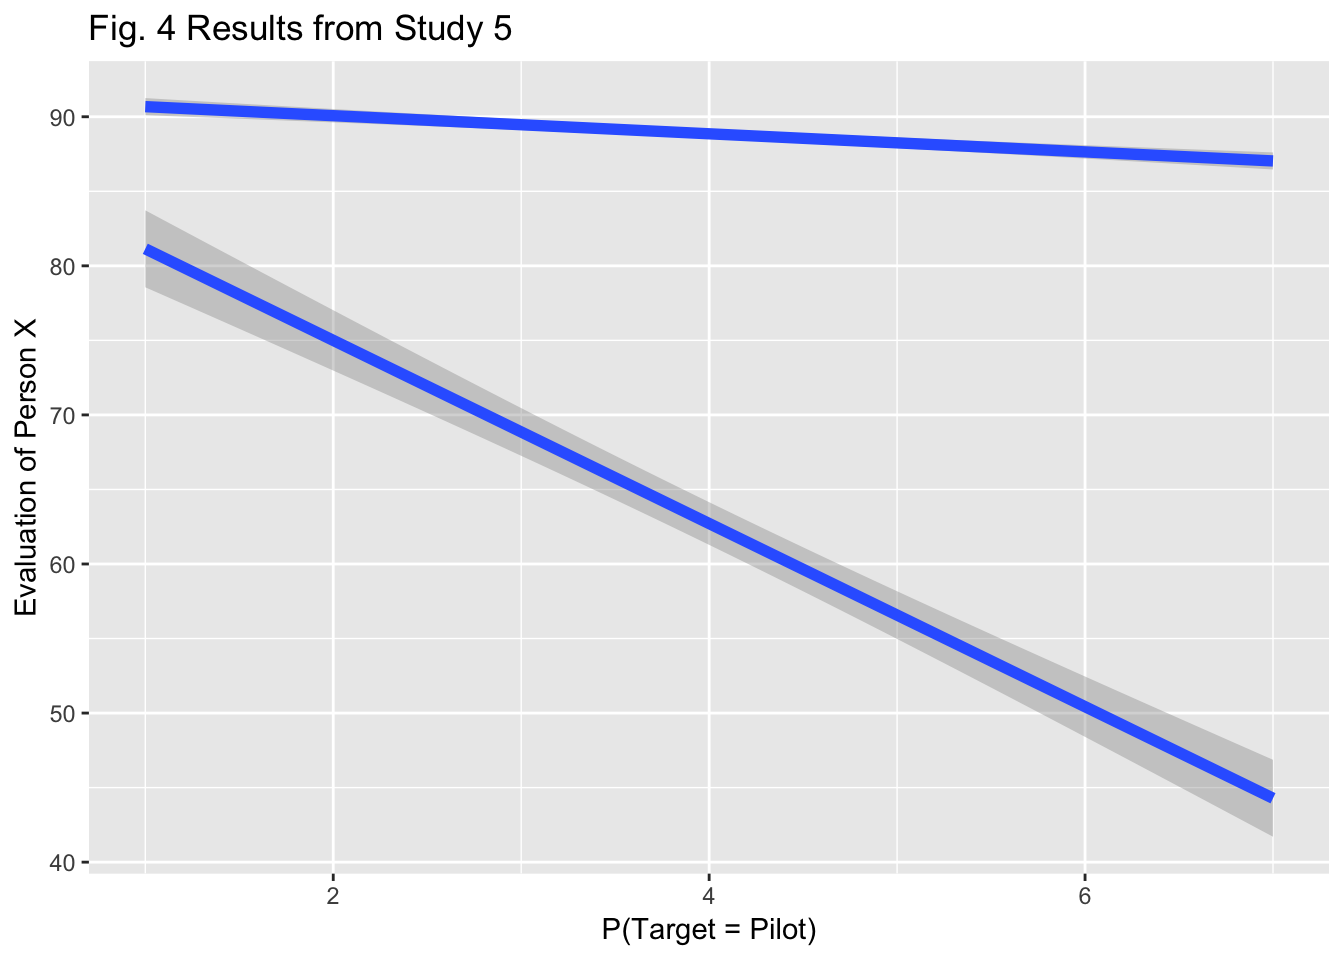
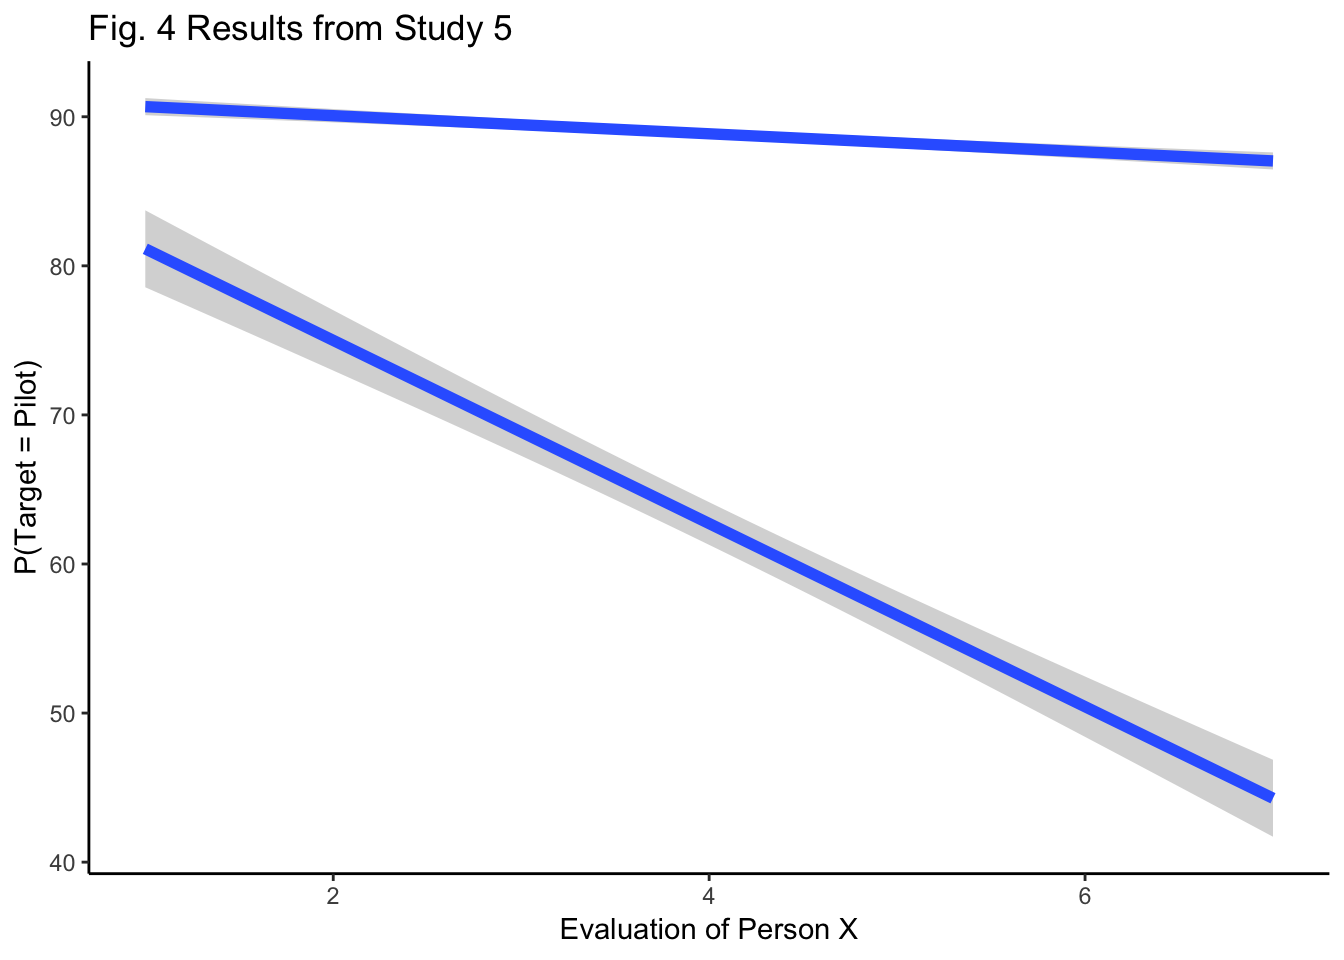
link fix

diff --git a/docs/GGPlot.html b/docs/GGPlot.html
@@ -380,10 +380,10 @@ div.tocify {
   <a href="index.html">Home</a>
 </li>
 <li>
-  <a href="Class Notes.html">Class Notes</a>
+  <a href="Class_Notes.html">Class Notes</a>
 </li>
 <li>
-  <a href="Solving Problems.html">Solving Problems</a>
+  <a href="Solving_Problems.html">Solving Problems</a>
 </li>
 <li>
   <a href="Intrinsics.html">Intrinsics</a>
@@ -441,11 +441,13 @@ evalopX &lt;- data.frame(evalp,target,person)
 
 ggplot(data = evalopX, aes(x=evalp,y=target,group=person))+
   geom_smooth(method=lm,size=2)+
-  ylab(&quot;Evaluation of Person X&quot;)+
-  xlab(&quot;P(Target = Pilot)&quot;)+
-  ggtitle(&quot;Fig. 4 Results from Study 5&quot;)</code></pre>
+  xlab(&quot;Evaluation of Person X&quot;)+
+  ylab(&quot;P(Target = Pilot)&quot;)+
+  ggtitle(&quot;Fig. 4 Results from Study 5&quot;)+
+  theme_classic(base_size=11)</code></pre>
 <p><img src="GGPlot_files/figure-html/unnamed-chunk-2-1.png" width="672" /></p>
-<pre class="r"><code>#why does only 1 line have the gray surrounding </code></pre>
+<pre class="r"><code>#why does only 1 line have the gray surrounding 
+#make all tics show; add negative to 1 and positive to 7 </code></pre>
 <pre class="r"><code>#figure 2 A.visual group B.auditory group
 fac_one &lt;- rep(rep(as.factor(c(&quot;No Transient&quot;, &quot;Transient&quot;)),2),2)
 fac_two &lt;- rep(rep(as.factor(c(&quot;Outside&quot;,&quot;Inside&quot;)),2),2)

diff --git a/docs/Links.html b/docs/Links.html
@@ -282,10 +282,10 @@ $(document).ready(function () {
   <a href="index.html">Home</a>
 </li>
 <li>
-  <a href="Class Notes.html">Class Notes</a>
+  <a href="Class_Notes.html">Class Notes</a>
 </li>
 <li>
-  <a href="Solving Problems.html">Solving Problems</a>
+  <a href="Solving_Problems.html">Solving Problems</a>
 </li>
 <li>
   <a href="Intrinsics.html">Intrinsics</a>

diff --git a/docs/README.html b/docs/README.html
@@ -282,10 +282,10 @@ $(document).ready(function () {
   <a href="index.html">Home</a>
 </li>
 <li>
-  <a href="Class Notes.html">Class Notes</a>
+  <a href="Class_Notes.html">Class Notes</a>
 </li>
 <li>
-  <a href="Solving Problems.html">Solving Problems</a>
+  <a href="Solving_Problems.html">Solving Problems</a>
 </li>
 <li>
   <a href="Intrinsics.html">Intrinsics</a>

diff --git a/docs/index.html b/docs/index.html
@@ -282,10 +282,10 @@ $(document).ready(function () {
   <a href="index.html">Home</a>
 </li>
 <li>
-  <a href="Class Notes.html">Class Notes</a>
+  <a href="Class_Notes.html">Class Notes</a>
 </li>
 <li>
-  <a href="Solving Problems.html">Solving Problems</a>
+  <a href="Solving_Problems.html">Solving Problems</a>
 </li>
 <li>
   <a href="Intrinsics.html">Intrinsics</a>

diff --git a/docs/seq.html b/docs/seq.html
@@ -282,10 +282,10 @@ $(document).ready(function () {
   <a href="index.html">Home</a>
 </li>
 <li>
-  <a href="Class Notes.html">Class Notes</a>
+  <a href="Class_Notes.html">Class Notes</a>
 </li>
 <li>
-  <a href="Solving Problems.html">Solving Problems</a>
+  <a href="Solving_Problems.html">Solving Problems</a>
 </li>
 <li>
   <a href="Intrinsics.html">Intrinsics</a>

diff --git a/docs/Class_Notes.html b/docs/Class_Notes.html
@@ -380,10 +380,10 @@ div.tocify {
   <a href="index.html">Home</a>
 </li>
 <li>
-  <a href="Class Notes.html">Class Notes</a>
+  <a href="Class_Notes.html">Class Notes</a>
 </li>
 <li>
-  <a href="Solving Problems.html">Solving Problems</a>
+  <a href="Solving_Problems.html">Solving Problems</a>
 </li>
 <li>
   <a href="Intrinsics.html">Intrinsics</a>

diff --git a/docs/Intrinsics.html b/docs/Intrinsics.html
@@ -380,10 +380,10 @@ div.tocify {
   <a href="index.html">Home</a>
 </li>
 <li>
-  <a href="Class Notes.html">Class Notes</a>
+  <a href="Class_Notes.html">Class Notes</a>
 </li>
 <li>
-  <a href="Solving Problems.html">Solving Problems</a>
+  <a href="Solving_Problems.html">Solving Problems</a>
 </li>
 <li>
   <a href="Intrinsics.html">Intrinsics</a>

diff --git a/docs/Solving_Problems.html b/docs/Solving_Problems.html
@@ -380,10 +380,10 @@ div.tocify {
   <a href="index.html">Home</a>
 </li>
 <li>
-  <a href="Class Notes.html">Class Notes</a>
+  <a href="Class_Notes.html">Class Notes</a>
 </li>
 <li>
-  <a href="Solving Problems.html">Solving Problems</a>
+  <a href="Solving_Problems.html">Solving Problems</a>
 </li>
 <li>
   <a href="Intrinsics.html">Intrinsics</a>
